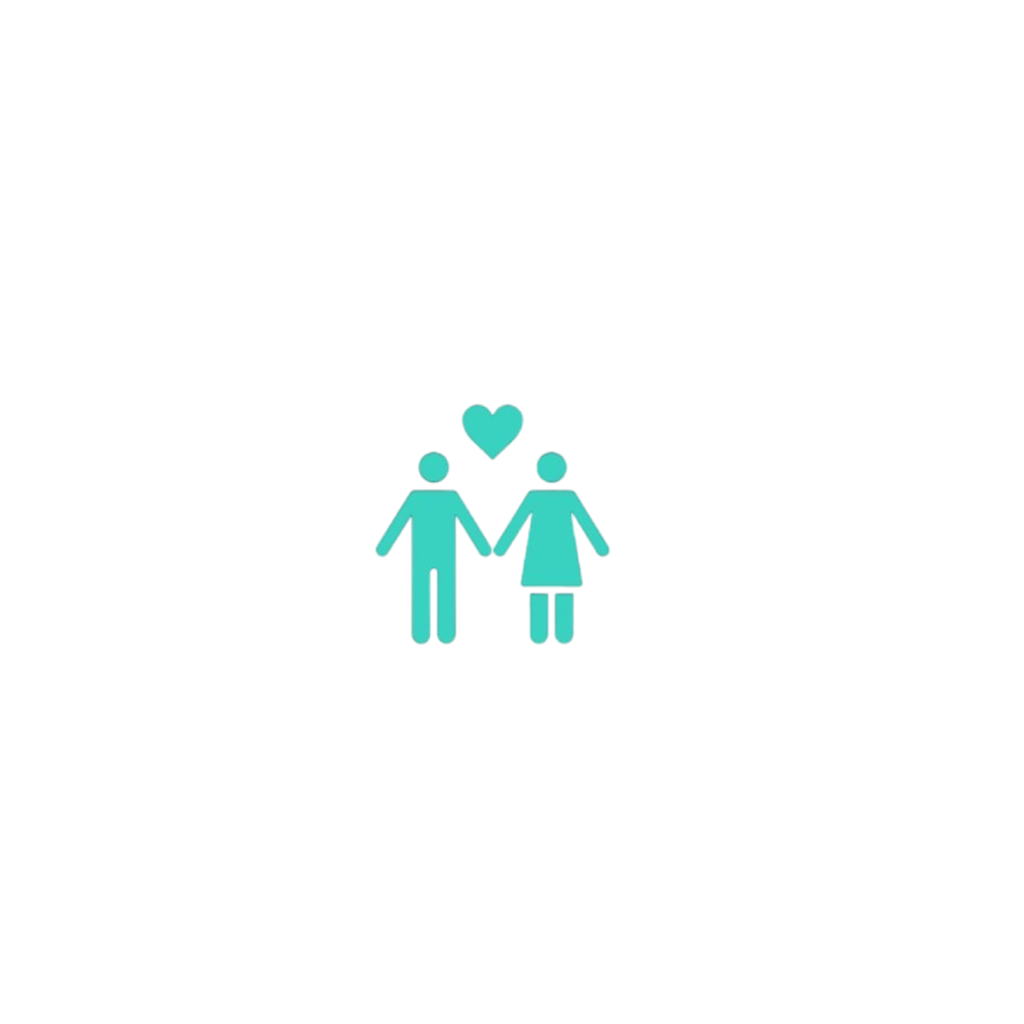
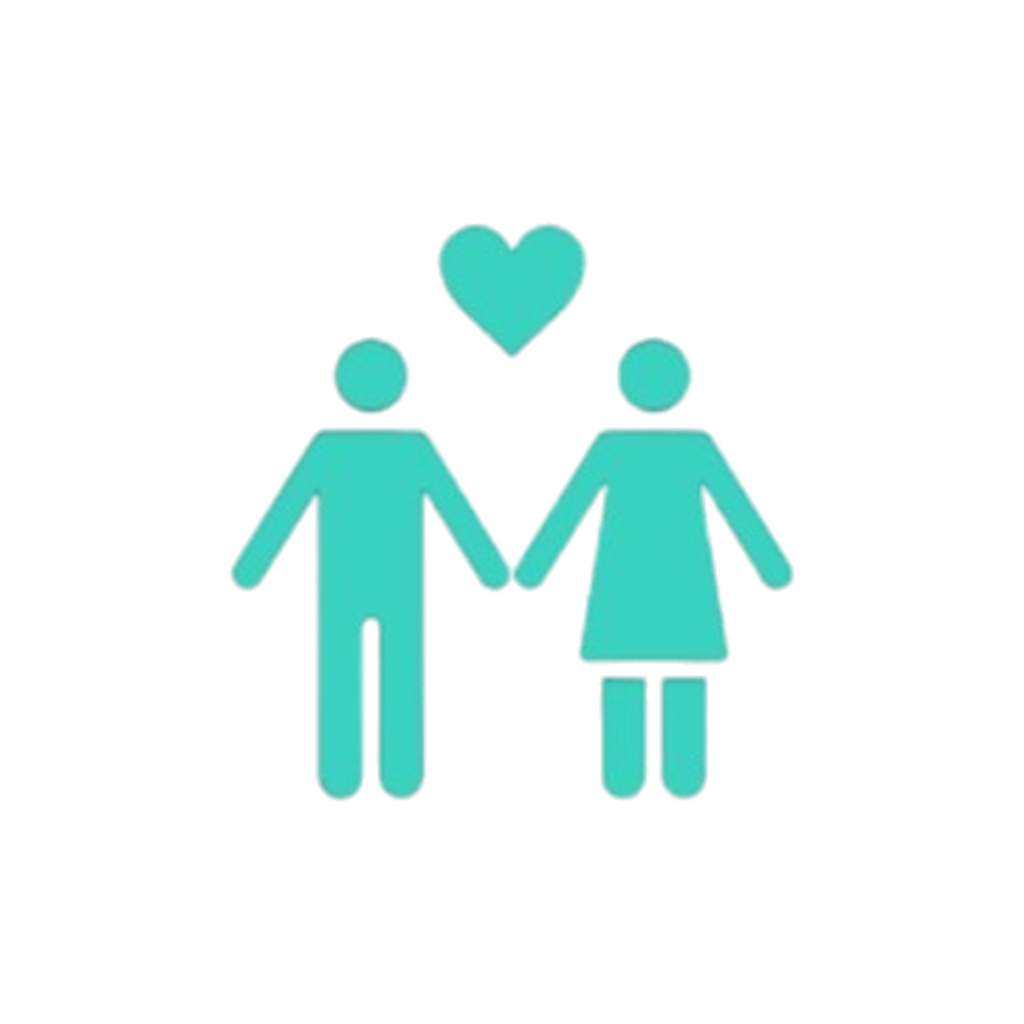
Enhance photo viewer with swipe, zoom, and pinch gestures
Rebuilt the photo viewer component to support swipe, pinch-to-zoom, and double-tap zoom gestures, replacing the previous ScrollView implementation. Updated the Android adaptive icon size.

Replit-Commit-Author: Agent
Replit-Commit-Session-Id: dfc3e785-664a-41f4-aee3-4a1b325e5f34
Replit-Commit-Checkpoint-Type: full_checkpoint
Replit-Commit-Event-Id: 24095a93-2158-4943-ab6a-21848303e9c1
Replit-Helium-Checkpoint-Created: true

Changed region(s): [[0.2188, 0.3125, 0.7812, 0.7812], [0.4062, 0.2188, 0.5938, 0.3438]]

diff --git a/frontend/screens/ProfileDetailScreen.tsx b/frontend/screens/ProfileDetailScreen.tsx
@@ -1,4 +1,4 @@
-import React, { useState, useEffect, useCallback, useRef } from "react";
+import React, { useState, useEffect, useCallback } from "react";
 import {
   View,
   StyleSheet,
@@ -172,23 +172,10 @@ export default function ProfileDetailScreen() {
   const [zoomVisible, setZoomVisible] = useState(false);
   const [zoomPhotoIndex, setZoomPhotoIndex] = useState(0);
   const [isZoomedIn, setIsZoomedIn] = useState(false);
-  const zoomScrollRef = useRef<ScrollView>(null);
 
   useEffect(() => {
     fetchUser();
   }, [userId]);
-
-  useEffect(() => {
-    if (zoomVisible && zoomPhotoIndex > 0) {
-      const timer = setTimeout(() => {
-        zoomScrollRef.current?.scrollTo({
-          x: SCREEN_WIDTH * zoomPhotoIndex,
-          animated: false,
-        });
-      }, 80);
-      return () => clearTimeout(timer);
-    }
-  }, [zoomVisible]);
 
   const fetchUser = async () => {
     try {
@@ -773,31 +760,27 @@ export default function ProfileDetailScreen() {
       >
         <View style={[styles.zoomModalContainer, { flex: 1 }]}>
           {user?.photos && user.photos.length > 0 && (
-            <ScrollView
-              ref={zoomScrollRef}
-              horizontal
-              pagingEnabled
-              scrollEnabled={!isZoomedIn}
-              showsHorizontalScrollIndicator={false}
-              style={{ flex: 1 }}
-              scrollEventThrottle={16}
-              onMomentumScrollEnd={(e) => {
-                const idx = Math.round(e.nativeEvent.contentOffset.x / SCREEN_WIDTH);
-                setZoomPhotoIndex(idx);
-                setIsZoomedIn(false);
-              }}
-            >
-              {user.photos.map((item: any, index: number) => (
-                <View key={index} style={styles.zoomPhotoPage}>
-                  <ZoomablePhoto
-                    source={getPhotoSource(item) || require('@/assets/images/placeholder-1.jpg')}
-                    width={SCREEN_WIDTH}
-                    height={SCREEN_HEIGHT}
-                    onZoomChange={(zoomed) => setIsZoomedIn(zoomed)}
-                  />
-                </View>
-              ))}
-            </ScrollView>
+            <View style={styles.zoomPhotoPage}>
+              <ZoomablePhoto
+                key={zoomPhotoIndex}
+                source={getPhotoSource(user.photos[zoomPhotoIndex]) || require('@/assets/images/placeholder-1.jpg')}
+                width={SCREEN_WIDTH}
+                height={SCREEN_HEIGHT}
+                onZoomChange={(zoomed) => setIsZoomedIn(zoomed)}
+                onSwipeNext={() => {
+                  if (zoomPhotoIndex < user.photos.length - 1) {
+                    setZoomPhotoIndex(zoomPhotoIndex + 1);
+                    setIsZoomedIn(false);
+                  }
+                }}
+                onSwipePrev={() => {
+                  if (zoomPhotoIndex > 0) {
+                    setZoomPhotoIndex(zoomPhotoIndex - 1);
+                    setIsZoomedIn(false);
+                  }
+                }}
+              />
+            </View>
           )}
 
           {/* Photo count indicator */}
@@ -815,6 +798,15 @@ export default function ProfileDetailScreen() {
             </View>
           )}
 
+          {/* Photo counter text */}
+          {user?.photos && user.photos.length > 1 && (
+            <View style={[styles.zoomCounter, { top: insets.top + 16 }]}>
+              <ThemedText style={styles.zoomCounterText}>
+                {zoomPhotoIndex + 1} / {user.photos.length}
+              </ThemedText>
+            </View>
+          )}
+
           {/* Close button */}
           <TouchableOpacity
             style={[styles.zoomClose, { top: insets.top + 16 }]}
@@ -826,10 +818,10 @@ export default function ProfileDetailScreen() {
             <Ionicons name="close" size={24} color="#fff" />
           </TouchableOpacity>
 
-          {/* Double-tap / pinch hint */}
+          {/* Hint */}
           <View style={[styles.zoomHint, { bottom: insets.bottom + 20 }]}>
-            <Ionicons name="search-outline" size={13} color="rgba(255,255,255,0.5)" />
-            <ThemedText style={styles.zoomHintText}>Pinch or double-tap to zoom · Swipe for next photo</ThemedText>
+            <Ionicons name="information-circle-outline" size={13} color="rgba(255,255,255,0.5)" />
+            <ThemedText style={styles.zoomHintText}>Swipe left/right · Pinch or double-tap to zoom</ThemedText>
           </View>
         </View>
       </Modal>
@@ -1331,6 +1323,18 @@ const styles = StyleSheet.create({
   zoomHintText: {
     fontSize: 12,
     color: 'rgba(255,255,255,0.6)',
+  },
+  zoomCounter: {
+    position: 'absolute',
+    alignSelf: 'center',
+    left: 0,
+    right: 0,
+    alignItems: 'center',
+  },
+  zoomCounterText: {
+    fontSize: 13,
+    color: 'rgba(255,255,255,0.75)',
+    fontWeight: '600',
   },
   zoomPhotoPage: {
     width: SCREEN_WIDTH,

diff --git a/frontend/components/ZoomablePhoto.tsx b/frontend/components/ZoomablePhoto.tsx
@@ -4,23 +4,30 @@ import Animated, {
   useSharedValue,
   useAnimatedStyle,
   withSpring,
+  withTiming,
   runOnJS,
 } from "react-native-reanimated";
 import { Gesture, GestureDetector } from "react-native-gesture-handler";
 
 const { width: SCREEN_WIDTH, height: SCREEN_HEIGHT } = Dimensions.get("window");
 
+const SWIPE_THRESHOLD = 60;
+
 interface ZoomablePhotoProps {
   source: any;
   width?: number;
   height?: number;
+  onSwipeNext?: () => void;
+  onSwipePrev?: () => void;
   onZoomChange?: (zoomed: boolean) => void;
 }
 
 export default function ZoomablePhoto({
   source,
   width = SCREEN_WIDTH,
-  height = SCREEN_HEIGHT * 0.82,
+  height = SCREEN_HEIGHT,
+  onSwipeNext,
+  onSwipePrev,
   onZoomChange,
 }: ZoomablePhotoProps) {
   const scale      = useSharedValue(1);
@@ -30,46 +37,62 @@ export default function ZoomablePhoto({
   const savedTx    = useSharedValue(0);
   const savedTy    = useSharedValue(0);
 
-  const notifyZoom = (s: number) => {
-    if (onZoomChange) {
-      runOnJS(onZoomChange)(s > 1.05);
-    }
+  const notifyZoom = (zoomed: boolean) => {
+    if (onZoomChange) runOnJS(onZoomChange)(zoomed);
+  };
+
+  const goNext = () => { if (onSwipeNext) onSwipeNext(); };
+  const goPrev = () => { if (onSwipePrev) onSwipePrev(); };
+
+  const resetZoom = () => {
+    "worklet";
+    scale.value      = withSpring(1);
+    savedScale.value = 1;
+    tx.value         = withSpring(0);
+    ty.value         = withSpring(0);
+    savedTx.value    = 0;
+    savedTy.value    = 0;
   };
 
   const pinch = Gesture.Pinch()
     .onUpdate((e) => {
+      "worklet";
       scale.value = Math.min(Math.max(savedScale.value * e.scale, 0.8), 6);
     })
     .onEnd(() => {
+      "worklet";
       if (scale.value < 1) {
-        scale.value      = withSpring(1);
-        savedScale.value = 1;
-        tx.value         = withSpring(0);
-        ty.value         = withSpring(0);
-        savedTx.value    = 0;
-        savedTy.value    = 0;
-        notifyZoom(1);
+        resetZoom();
+        notifyZoom(false);
       } else {
         savedScale.value = scale.value;
-        notifyZoom(scale.value);
+        notifyZoom(scale.value > 1.05);
       }
     });
 
   const pan = Gesture.Pan()
     .averageTouches(true)
-    .activeOffsetX([-10, 10])
-    .activeOffsetY([-10, 10])
     .onUpdate((e) => {
-      if (scale.value <= 1.05) return;
+      "worklet";
+      if (scale.value <= 1.05) {
+        tx.value = e.translationX * 0.3;
+        return;
+      }
       tx.value = savedTx.value + e.translationX;
       ty.value = savedTy.value + e.translationY;
     })
-    .onEnd(() => {
+    .onEnd((e) => {
+      "worklet";
       if (scale.value <= 1.05) {
-        tx.value      = withSpring(0);
-        ty.value      = withSpring(0);
+        tx.value = withSpring(0);
+        ty.value = withSpring(0);
         savedTx.value = 0;
         savedTy.value = 0;
+        if (e.translationX < -SWIPE_THRESHOLD) {
+          runOnJS(goNext)();
+        } else if (e.translationX > SWIPE_THRESHOLD) {
+          runOnJS(goPrev)();
+        }
         return;
       }
       savedTx.value = tx.value;
@@ -80,18 +103,14 @@ export default function ZoomablePhoto({
     .numberOfTaps(2)
     .maxDelay(250)
     .onEnd(() => {
+      "worklet";
       if (savedScale.value > 1) {
-        scale.value      = withSpring(1);
-        savedScale.value = 1;
-        tx.value         = withSpring(0);
-        ty.value         = withSpring(0);
-        savedTx.value    = 0;
-        savedTy.value    = 0;
-        notifyZoom(1);
+        resetZoom();
+        notifyZoom(false);
       } else {
         scale.value      = withSpring(2.5);
         savedScale.value = 2.5;
-        notifyZoom(2.5);
+        notifyZoom(true);
       }
     });
 
